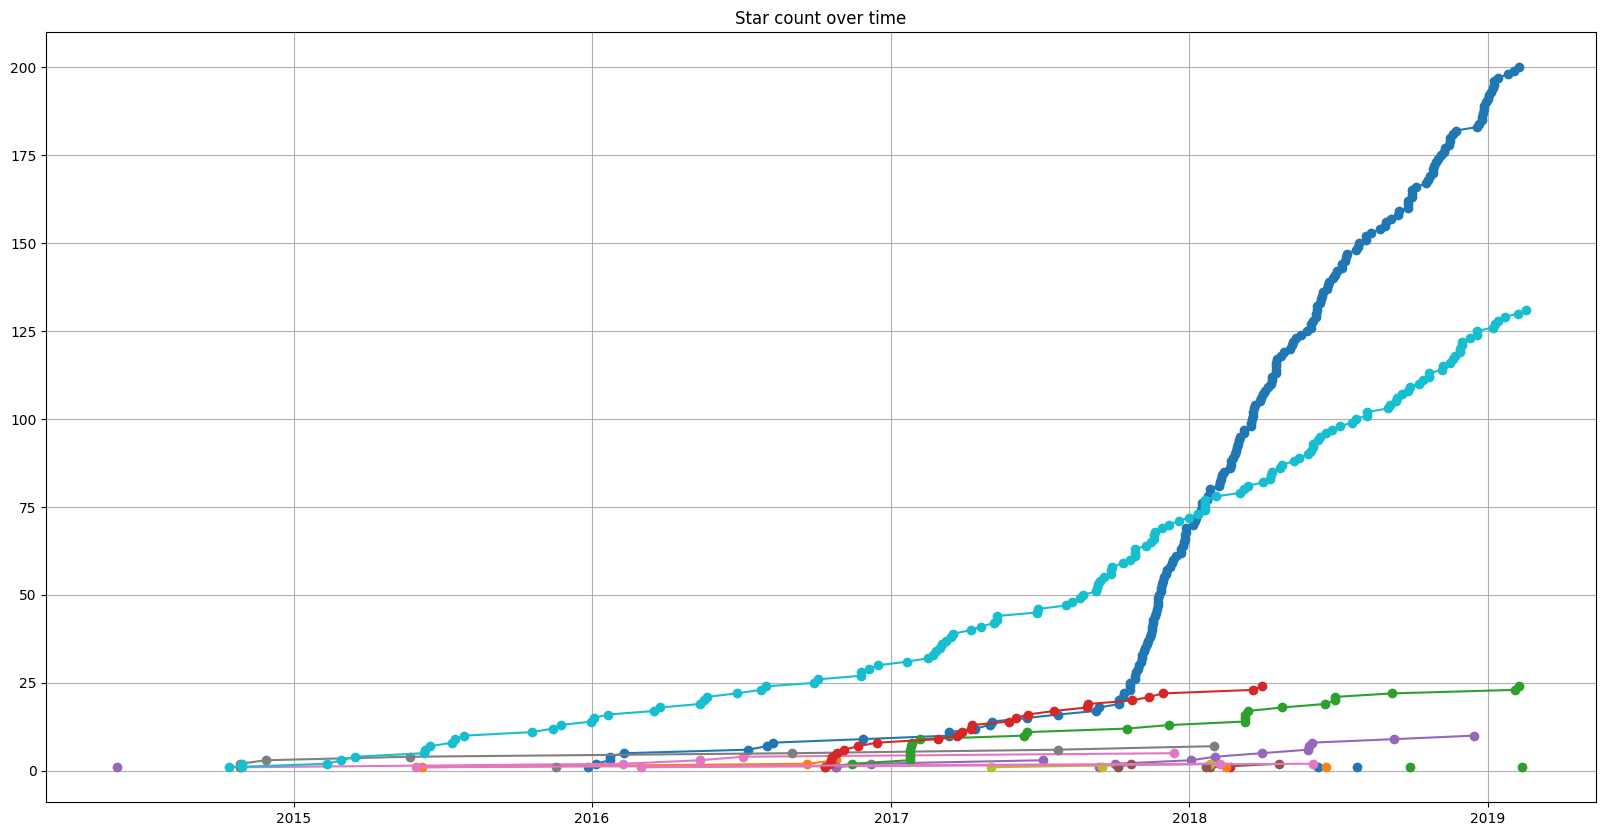
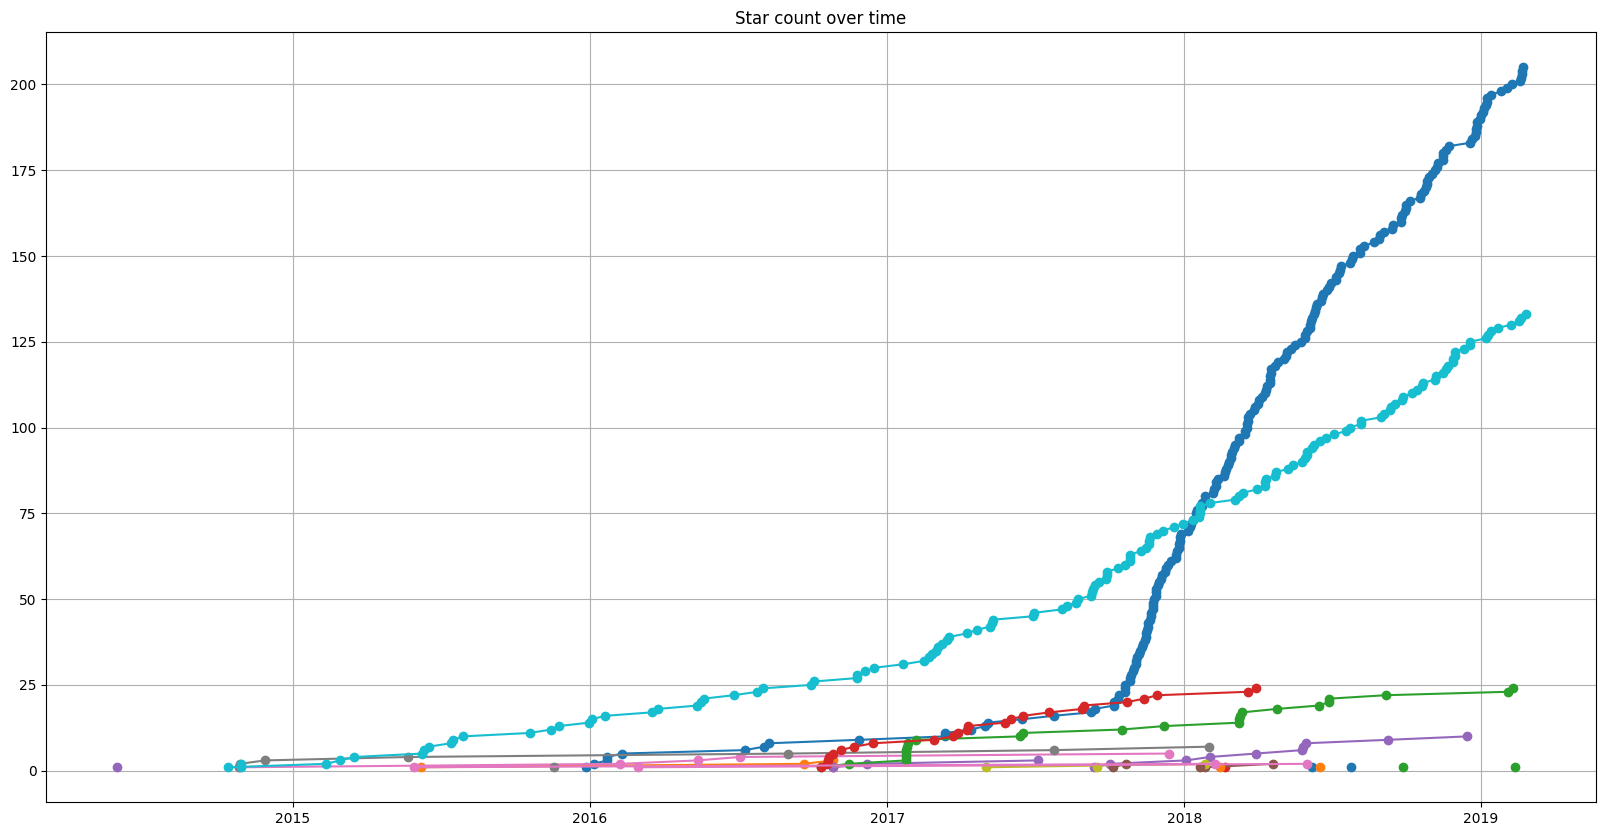
update

diff --git a/README.md b/README.md
@@ -3,7 +3,7 @@
 
 ![star plot](https://raw.github.com/FabriceSalvaire/github-map/master/star-plots/all.png)
 
-Overall stars: 431 :star:
+Overall stars: 438 :star:
 
 ## Python Packages
 
@@ -45,17 +45,17 @@ Overall stars: 431 :star:
 
 ## Python Tools for Developers
 
-* [CodeReview](https://github.com/FabriceSalvaire/CodeReview) 200 :star:</br>
+* [CodeReview](https://github.com/FabriceSalvaire/CodeReview) 205 :star:</br>
 
    CodeReview is a Git GUI tool to perform code review (Diff Viewer) written in Python3 and Qt5.
 
-   Updated on 2019-02-07
+   Updated on 2019-02-21
 
 * [github-map](https://github.com/FabriceSalvaire/github-map)
 
    A summary of my projects on Github (using API and Python)
 
-   Updated on 2019-02-11
+   Updated on 2019-02-17
 
 * [python-memo](https://github.com/FabriceSalvaire/python-memo)
 
@@ -181,11 +181,11 @@ Overall stars: 431 :star:
 
 ## Python for Electronic
 
-* [PySpice](https://github.com/FabriceSalvaire/PySpice) 131 :star:</br>
+* [PySpice](https://github.com/FabriceSalvaire/PySpice) 133 :star:</br>
 
    Simulate electronic circuit using Python and the Ngspice / Xyce simulators
 
-   Updated on 2019-02-16
+   Updated on 2019-02-24
 
 * [PyCpuSimulator](https://github.com/FabriceSalvaire/PyCpuSimulator) 2 :star:</br>
 
@@ -293,9 +293,9 @@ Overall stars: 431 :star:
 
 * [book-browser](https://github.com/FabriceSalvaire/book-browser) 1 :star:</br>
 
-   An application to read books stored as an image by page (Python3 Qt5 QML)
+   An application to digitise and read books (Python3 Qt5 QML)
 
-   Updated on 2019-02-17
+   Updated on 2019-02-20
 
 * [biblio-data](https://github.com/FabriceSalvaire/biblio-data)
 
